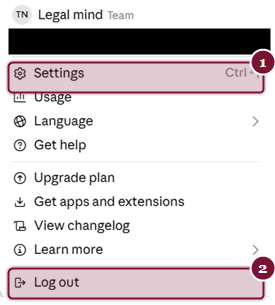
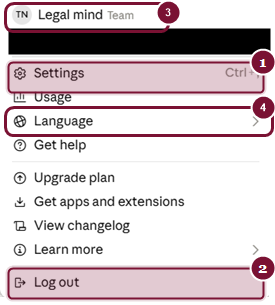
Desktop guide: second review pass, legends for all mentioned UI items, wording fixes

Changed region(s): [[0.0, 0.2951, 1.0, 0.4721], [0.0, 0.0, 0.6691, 0.118]]

diff --git a/desktop/index.html b/desktop/index.html
@@ -53,7 +53,7 @@
       </div>
       <div class="sec-body">
         <p><bdi>Claude Desktop</bdi> היא האפליקציה הרשמית של <bdi>Anthropic</bdi> למחשב. זה אותו <bdi>Claude</bdi> שאתם מכירים מהדפדפן: אותו חשבון, אותן שיחות, אותם מודלים, בתוך אפליקציה שמותקנת על המחשב עצמו, נפתחת מתפריט <bdi>Start</bdi> כמו <bdi>Word</bdi> או <bdi>Outlook</bdi>, ויושבת לכם בשורת המשימות.</p>
-        <p>חשוב להבין כבר עכשיו: ההתקנה לא יוצרת "חשבון שני". השיחות והפרויקטים שמורים בחשבון שלכם, ולכן שיחה שהתחלתם בדפדפן תופיע באפליקציה, ופרויקט שפתחתם באפליקציה יופיע בדפדפן. החריג היחיד: משימות <bdi>Cowork</bdi> שרצות על המחשב עצמו (סעיף 3).</p>
+        <p>חשוב להבין כבר עכשיו: ההתקנה לא יוצרת "חשבון שני". השיחות והפרויקטים שמורים בחשבון שלכם, ולכן שיחה שהתחלתם בדפדפן תופיע באפליקציה, ופרויקט שפתחתם באפליקציה יופיע בדפדפן. החריג העיקרי: משימות <bdi>Cowork</bdi> שרצות על המחשב עצמו, ופרויקטים שמקושרים לתיקייה במחשב (סעיף 3).</p>
         <p>אז למה בכלל להתקין, אם זה אותו <bdi>Claude</bdi>? משלוש סיבות עיקריות:</p>
         <ul class="bullets">
           <li><b>סביבת עבודה נקייה.</b> בדפדפן, <bdi>Claude</bdi> הוא עוד לשונית בין עשרות לשוניות, נבלע בין תיבת המייל, נט המשפט והחדשות. באפליקציה הוא חלון עבודה בפני עצמו: קל למצוא, קל לחזור אליו, קל לעבוד בו לצד מסמך פתוח.</li>
@@ -96,10 +96,10 @@
 
         <p>נעבור על השורות החשובות בטבלה, אחת אחרי השנייה:</p>
         <p><b>חלון עבודה עצמאי.</b> נשמע כמו הבדל קטן, אבל בעבודה יומיומית הוא מורגש מאוד. כשאתם באמצע ניסוח חוזה ורוצים להתייעץ עם <bdi>Claude</bdi>, אתם לא מחפשים את הלשונית הנכונה בין עשרים לשוניות פתוחות: האפליקציה שם, קליק אחד בשורת המשימות. אפשר להצמיד אותה לצד מסמך <bdi>Word</bdi> פתוח ולעבוד בשני החלונות במקביל.</p>
-        <p><b>חיבור לתוכנות ולקבצים.</b> כאן צריך להבחין בין שני סוגי חיבורים. חיבורים לשירותי ענן, כמו <bdi>Gmail</bdi>, <bdi>Google Drive</bdi> ו-<bdi>Slack</bdi>, נקראים <bdi>Connectors</bdi>, והם עובדים בכל מקום שבו אתם משתמשים ב-<bdi>Claude</bdi>: בדפדפן, באפליקציה ובטלפון. מה ששמור לאפליקציה הוא החיבור למחשב עצמו: תוספים שנקראים <bdi>Extensions</bdi>, שמחברים את <bdi>Claude</bdi> לקבצים ולתוכנות שעל המחשב. לפי <bdi>Anthropic</bdi>, הם עובדים רק ב-<bdi>Claude Desktop</bdi>, ולא בדפדפן או בטלפון. פירוט בסעיף 8.</p>
+        <p><b>חיבור לתוכנות ולקבצים.</b> כאן צריך להבחין בין שני סוגי חיבורים. חיבורים לשירותי ענן, כמו <bdi>Gmail</bdi>, <bdi>Google Drive</bdi> ו-<bdi>Slack</bdi>, נקראים <bdi>Connectors</bdi>, והם עובדים בכל מקום שבו אתם משתמשים ב-<bdi>Claude</bdi>: בדפדפן, באפליקציה ובטלפון. מה ששמור לאפליקציה הוא החיבור למחשב עצמו: תוספים שנקראים <bdi>Extensions</bdi>, שמחברים את <bdi>Claude</bdi> לקבצים ולתוכנות שעל המחשב. לפי <bdi>Anthropic</bdi>, הם עובדים רק באפליקציות למחשב, <bdi>Claude Desktop</bdi> ו-<bdi>Claude Code</bdi>, ולא בדפדפן או בטלפון. פירוט בסעיף 8.</p>
         <p><b>עבודת <bdi>Cowork</bdi> על קבצים במחשב.</b> זו הסיבה הגדולה באמת. במצב <bdi>Cowork</bdi>, <bdi>Claude</bdi> לא רק עונה לשאלות. הוא מבצע עבודה: מקבל גישה לתיקייה שבחרתם, קורא את הקבצים, יוצר מסמכים, מארגן ומסכם, ומגיש לכם תוצר מוגמר. את <bdi>Cowork</bdi> עצמו אפשר להפעיל גם מהדפדפן ומהטלפון, אבל הגישה לתיקיות ולקבצים שעל המחשב שלכם עוברת תמיד דרך האפליקציה: היא פועלת רק כל עוד האפליקציה פתוחה על אותו מחשב, ורק כשהמשימה עצמה התחילה באפליקציה. זהו נושא המדריך הבא בסדרה.</p>
         <p><b>רגע, ואיפה המתג של <bdi>Cowork</bdi>?</b> שאלה טובה, והתשובה השתנתה לאחרונה. ב-16 בספטמבר 2026 הודיעה <bdi>Anthropic</bdi> ש-<bdi>Cowork</bdi> והצ'אט מתאחדים ל-<bdi>Claude</bdi> אחד: במקום שתחליטו מראש אם מה שאתם צריכים הוא "שיחה" או "משימה", אתם פשוט כותבים מה אתם צריכים, ו-<bdi>Claude</bdi> מחליט בעצמו אם זו תשובה מהירה או עבודה של ממש. השינוי יוצא בהדרגה, קודם למנויי <bdi>Pro</bdi> ו-<bdi>Max</bdi>. לפי <bdi>Anthropic</bdi>, במנויי <bdi>Team</bdi> ו-<bdi>Enterprise</bdi> הצ'אט ו-<bdi>Cowork</bdi> נשארים בינתיים כמו שהם. לכן ייתכן שאצל חלק מכם המתג בין <bdi>Chat</bdi> ל-<bdi>Cowork</bdi> כבר נעלם מתיבת הכתיבה, ואצל אחרים הוא עדיין שם. שני המצבים תקינים. וכלל פשוט לכל המדריך: בכל מקום שבו כתוב "מצב <bdi>Cowork</bdi>", אם אין לכם מתג, פשוט כתבו את המשימה.</p>
-        <p>באותו יום נוספו גם <bdi>Claude Docs</bdi> ו-<bdi>Claude Slides</bdi>: מבקשים מסמך או מצגת, ו-<bdi>Claude</bdi> מכין אותם בתוך השיחה. אפשר לערוך אותם בעצמכם או לבקש מ-<bdi>Claude</bdi> לשנות, ואחר כך לשתף בקישור או לייצא. לפי <bdi>Anthropic</bdi>, הם בגרסת בטא, והם זמינים בדפדפן ובאפליקציה כאחד. זו לא סיבה להתקין, אבל זו סיבה טובה לא להיבהל כשתראו כפתורים חדשים.</p>
+        <p>באותו יום נוספו גם <bdi>Claude Docs</bdi> ו-<bdi>Claude Slides</bdi>: מבקשים מסמך או מצגת, ו-<bdi>Claude</bdi> מכין אותם בתוך השיחה. אפשר לערוך אותם בעצמכם או לבקש מ-<bdi>Claude</bdi> לשנות, ואחר כך לשתף בקישור או לייצא. לפי <bdi>Anthropic</bdi>, הם בגרסת בטא, והם זמינים בדפדפן ובאפליקציה כאחד. במנוי <bdi>Enterprise</bdi> הם כבויים עד שבעל הארגון מפעיל אותם. זו לא סיבה להתקין, אבל זו סיבה טובה לא להיבהל כשתראו כפתורים חדשים.</p>
         <p><b>עדכוני גרסה.</b> גם כאן אין מה לעשות. לפי <bdi>Anthropic</bdi>, האפליקציה בודקת בעצמה בערך כל ארבע שעות אם יש גרסה חדשה, ומתקינה אותה אוטומטית.</p>
         <p>ואם לסכם בשורה אחת: הדפדפן מצוין לשיחה. האפליקציה הופכת את <bdi>Claude</bdi> לחלק מסביבת העבודה של המשרד.</p>
         <p>ומה לגבי אפליקציית הטלפון? היא מצוינת לשאלות תוך כדי תנועה, בדרך לדיון, בין פגישות, ואפשר גם לפתוח ממנה משימת <bdi>Cowork</bdi> ולעקוב אחריה. מה שהיא לא יכולה לעשות לבדה הוא להגיע לקבצים שעל מחשב המשרד: לשם כך המשימה צריכה להתחיל באפליקציה במחשב, והאפליקציה צריכה להיות פתוחה. שלושת הערוצים, דפדפן, מחשב וטלפון, חיים יחד באותו חשבון ומשלימים זה את זה.</p>
@@ -110,7 +110,7 @@
       <div class="sec-head">
         <span class="sec-num">3</span>
         <span class="sec-dot"></span>
-        <h2 class="sec-title">אבטחת מידע: מה חשוב לדעת לפני</h2>
+        <h2 class="sec-title">אבטחת מידע: מה חשוב לדעת</h2>
       </div>
       <div class="sec-body">
         <p>השאלה הראשונה שעורכי דין שואלים אותנו על האפליקציה היא כמעט תמיד שאלת אבטחה: "אם אני מתקין את זה על המחשב של המשרד, מה זה אומר על המידע שלי?"</p>
@@ -146,7 +146,7 @@
           <li><b>רכיב של <bdi>Windows</bdi> בשם <bdi>Virtual Machine Platform</bdi>.</b> לפי <bdi>Anthropic</bdi>, <bdi>Claude Desktop</bdi> ל-<bdi>Windows</bdi> צריך את הרכיב הזה כדי להפעיל את <bdi>Cowork</bdi>, ומחלקת המחשוב יודעת להפעיל אותו. שימו לב: לפי <bdi>Anthropic</bdi>, במחשב וירטואלי <bdi>(VDI)</bdi> בלי תמיכה בווירטואליזציה מקוננת, <bdi>Cowork</bdi> לא ירוץ.</li>
         </ul>
         <p>המדריך מדגים את ההתקנה על <bdi>Windows</bdi>, מערכת ההפעלה הנפוצה במשרדים בישראל. ב-<bdi>Mac</bdi> התהליך מקביל: מורידים את הקובץ מאותו עמוד, פותחים אותו להשלמת ההתקנה, ומפעילים את <bdi>Claude</bdi> מתיקיית <bdi>Applications</bdi>.</p>
-        <p>הערה למחשבי <bdi>Windows</bdi> עם מעבד <bdi>ARM</bdi> (דגמים מסוימים של מחשבים ניידים חדשים): בעמוד ההורדה יש כפתור נפרד, <bdi dir="ltr">Windows (arm64)</bdi>. אם אינכם יודעים מה סוג המעבד שלכם, בחרו ב-<bdi>Download for Windows</bdi>, או שאלו את מחלקת המחשוב.</p>
+        <p>הערה למחשבי <bdi>Windows</bdi> עם מעבד <bdi>ARM</bdi> (דגמים מסוימים של מחשבים ניידים חדשים): בעמוד ההורדה יש כפתור נפרד, <bdi dir="ltr">Windows (arm64)</bdi>. אם אינכם יודעים מה סוג המעבד שלכם, שאלו את מחלקת המחשוב לפני ההורדה.</p>
         <p>ונקודה אחת שכדאי לדעת מראש במשרדים עם מחלקת מחשוב: אם המחשבים במשרד מנוהלים על ידי גורם <bdi>IT</bdi>, ייתכן שהתקנת תוכנות דורשת את אישורו, כמו כל תוכנה. במקרה כזה, שלחו לו את המדריך הזה, ובעיקר את הסעיף הזה: אם ה-<bdi>IT</bdi> מתקין עבורכם, שיתקין עם הרשאות מנהל ויוודא שה-<bdi dir="ltr">Virtual Machine Platform</bdi> מופעל, אחרת <bdi>Cowork</bdi> לא יעבוד, ואף אחד לא יבין למה. למשרדים שמתקינים על הרבה מחשבים בבת אחת, ל-<bdi>Anthropic</bdi> יש <a href="https://support.claude.com/en/articles/12622703-deploy-claude-desktop-for-windows" target="_blank" rel="noopener">עמוד ייעודי למחלקות מחשוב</a> (באנגלית).</p>
       </div>
     </section>
@@ -162,7 +162,7 @@
 
         <h3 class="h2">שלב 1: הורדת קובץ ההתקנה</h3>
         <p>גלשו בדפדפן לעמוד ההורדה הרשמי של <bdi>Anthropic</bdi>:</p>
-        <p><code dir="ltr">claude.com/download</code></p>
+        <p><a href="https://claude.com/download" target="_blank" rel="noopener"><code dir="ltr">claude.com/download</code></a></p>
         <p>חשוב: מורידים אך ורק מהעמוד הרשמי הזה. לא מאתרי הורדות, לא מקישורים במייל. זה הכלל לכל תוכנה, ובוודאי לתוכנה שתעבוד לצד חומר מקצועי.</p>
 
         <figure>
@@ -192,8 +192,8 @@
           <figcaption>חלון האבטחה של <bdi>Windows</bdi> (צולם בטלפון: <bdi>Windows</bdi> חוסמת צילום מסך של חלון זה)</figcaption>
         </figure>
         <ul class="shot-legend">
-          <li><b>1</b><span>השורה החשובה: <bdi dir="ltr">Verified publisher: Anthropic, PBC</bdi>: אישור רשמי של <bdi>Windows</bdi> שהקובץ חתום דיגיטלית על ידי <bdi>Anthropic</bdi> עצמה ולא שונה בדרך. זה בדיוק מה שמבדיל התקנה בטוחה מקובץ מפוקפק, ואם השורה הזו מופיעה, אתם בידיים טובות.</span></li>
-          <li><b>2</b><span>לאחר שוידאתם, לחצו <bdi>Yes</bdi>. אם במקום כפתור <bdi>Yes</bdi> החלון מבקש שם משתמש וסיסמה של מנהל, עצרו ופנו למחלקת המחשוב: בלי הרשאות מנהל, <bdi>Cowork</bdi> במחשב לא יעבוד (סעיף 4).</span></li>
+          <li><b>1</b><span>השורה החשובה היא <bdi dir="ltr">Verified publisher: Anthropic, PBC</bdi>. זהו אישור רשמי של <bdi>Windows</bdi> שהקובץ חתום דיגיטלית על ידי <bdi>Anthropic</bdi> עצמה ולא שונה בדרך. זה בדיוק מה שמבדיל התקנה בטוחה מקובץ מפוקפק, ואם השורה הזו מופיעה, אתם בידיים טובות.</span></li>
+          <li><b>2</b><span>אחרי שווידאתם, לחצו <bdi>Yes</bdi>. אם במקום כפתור <bdi>Yes</bdi> החלון מבקש שם משתמש וסיסמה של מנהל, עצרו ופנו למחלקת המחשוב: בלי הרשאות מנהל, <bdi>Cowork</bdi> במחשב לא יעבוד (סעיף 4).</span></li>
         </ul>
 
         <h3 class="h2">שלב 4: ההתקנה רצה מעצמה</h3>
@@ -299,6 +299,8 @@
         <ul class="shot-legend">
           <li><b>1</b><span><bdi>Settings</bdi>: כניסה להגדרות האפליקציה.</span></li>
           <li><b>2</b><span><bdi>Log out</bdi>: התנתקות מהחשבון.</span></li>
+          <li><b>3</b><span>שם הסביבה: כאן רואים לאיזה חשבון אתם מחוברים. במנוי <bdi>Team</bdi> יופיע כאן שם הארגון.</span></li>
+          <li><b>4</b><span><bdi>Language</bdi>: בחירת שפת הממשק.</span></li>
         </ul>
       </div>
     </section>
@@ -313,7 +315,7 @@
         <p>סעיף זה הוא סקירה: המטרה שתדעו מה קיים ואיפה למצוא אותו. ההדרכות המפורטות, כולל שיקולי המדיניות המשרדית, נמצאות במדריכים הייעודיים של הסדרה.</p>
 
         <h3 class="h2">הגדרות האפליקציה</h3>
-        <p>נפתח את ההגדרות (תפריט החשבון ואז <bdi>Settings</bdi>, או <bdi dir="ltr">Ctrl+,</bdi>). כך נראה המסך שנפתח:</p>
+        <p>נפתח את ההגדרות (תפריט החשבון ואז <bdi>Settings</bdi>). כך נראה המסך שנפתח:</p>
 
         <figure>
           <img class="shot-real" src="cd-10-settings-general-annotated.png" alt="חלון ההגדרות: עמוד General">
@@ -322,9 +324,10 @@
         <ul class="shot-legend">
           <li><b>1</b><span>קטגוריות ההגדרות. רובן מוכרות מהדפדפן, ושימו לב לקבוצה <bdi>Desktop app</bdi>: הגדרות שקיימות רק באפליקציה, ובהן <bdi>Extensions</bdi> (בהמשך הסעיף).</span></li>
           <li><b>2</b><span><bdi>Appearance</bdi>: מראה בהיר, כהה, או לפי הגדרת המחשב. מתחתיו גם בחירת גופן התצוגה.</span></li>
+          <li><b>3</b><span><bdi dir="ltr">What should Claude call you?</bdi>: איך <bdi>Claude</bdi> יפנה אליכם.</span></li>
+          <li><b>4</b><span><bdi dir="ltr">Instructions for Claude</bdi>: הנחיות קבועות שילוו כל שיחה, למשל העדפות שפה וסגנון כתיבה. לפי <bdi>Anthropic</bdi>, הן חלות על כל השיחות, לא רק באפליקציה.</span></li>
         </ul>
 
-        <p>בעמוד זה אפשר גם להגדיר איך <bdi>Claude</bdi> יפנה אליכם, ולהזין הנחיות קבועות שילוו כל שיחה (<bdi dir="ltr">Instructions for Claude</bdi>), למשל העדפות שפה וסגנון כתיבה. ההנחיות האלה חלות על החשבון שלכם בכל מקום, לא רק באפליקציה.</p>
 
         <h3 class="h2">חיבור לשירותים: <bdi>Connectors</bdi></h3>
         <p><bdi>Connectors</bdi> מאפשרים ל-<bdi>Claude</bdi> להתחבר לשירותים שאתם עובדים איתם: לקרוא מהם מידע ולעבוד איתם ישירות מתוך השיחה, בהתאם להרשאות שאישרתם. החיבורים שתראו כאן, כמו <bdi>Gmail</bdi> ו-<bdi>Google Drive</bdi>, אינם בלעדיים לאפליקציה, והם עובדים גם בדפדפן. לפי <bdi>Anthropic</bdi>, יש גם חיבור ל-<bdi>Microsoft 365</bdi>, שרוב המשרדים בישראל עובדים איתו. לפי <bdi>Anthropic</bdi>, מגיעים אליהם דרך <bdi>Customize</bdi> ואז <bdi>Connectors</bdi>, ואת <bdi>Customize</bdi> תמצאו גם בסרגל הצד של האפליקציה. בחלון ההגדרות זה נראה כך:</p>
@@ -336,7 +339,7 @@
         <ul class="shot-legend">
           <li><b>1</b><span>הקטגוריה <bdi>Connectors</bdi> בתפריט ההגדרות (תחת <bdi>Customize</bdi>).</span></li>
           <li><b>2</b><span>החיבורים הפופולריים מוצגים ראשונים: <bdi>Gmail</bdi>, <bdi>Google Drive</bdi> ו-<bdi>Slack</bdi>. חיבור מתבצע בלחיצת <bdi>Connect</bdi> ואישור הרשאות. לפי <bdi>Anthropic</bdi>, במנוי <bdi>Team</bdi> בעלי הארגון צריכים קודם לאפשר את החיבור לארגון, ואחר כך כל אחד מתחבר בעצמו.</span></li>
-          <li><b>3</b><span>הכפתור <bdi>Add</bdi> פותח קטלוג של שירותים נוספים שאפשר לחבר, מעבר למה שמוצג בעמוד.</span></li>
+          <li><b>3</b><span>הכפתור <bdi>Add</bdi> פותח תפריט להוספת חיבורים נוספים, מעבר למה שמוצג בעמוד.</span></li>
         </ul>
 
         <p>מה זה נותן בפועל? דוגמה: אחרי חיבור <bdi>Google Drive</bdi>, אפשר לבקש מ-<bdi>Claude</bdi> לאתר מסמך ולעבוד עליו, בלי להוריד ולהעלות קבצים ידנית. החיבורים הם אישיים לחשבון שלכם, ואת כל חיבור אפשר לנתק באותו מסך בכל רגע.</p>
@@ -347,8 +350,8 @@
 
         <h3 class="h2">מה עוד שמור ל-<bdi>Desktop</bdi></h3>
         <ul class="bullets">
-          <li><b>תוספים למחשב: <bdi>Extensions</bdi>.</b> לפי <bdi>Anthropic</bdi>, אלה תוספים שמחברים את <bdi>Claude</bdi> לתוכנות ולקבצים שעל המחשב, והם עובדים רק ב-<bdi>Claude Desktop</bdi>. מוצאים אותם בהגדרות, ב-<bdi>Settings</bdi> ואז <bdi>Extensions</bdi>. גם כאן, לפני שמתקינים תוסף במחשב משרדי, ודאו שהוא תואם את מדיניות המשרד.</li>
-          <li><b>שורת שאלה מהירה (רק ב-<bdi>Mac</bdi>).</b> לפי <bdi>Anthropic</bdi>, ב-<bdi>Mac</bdi> הקשה כפולה על <bdi>Option</bdi> פותחת שורת כתיבה מעל כל תוכנה פתוחה. ב-<bdi>Windows</bdi> היכולת הזו לא קיימת כרגע.</li>
+          <li><b>תוספים למחשב: <bdi>Extensions</bdi>.</b> לפי <bdi>Anthropic</bdi>, אלה תוספים שמחברים את <bdi>Claude</bdi> לתוכנות ולקבצים שעל המחשב, והם עובדים רק באפליקציות למחשב, ולא בדפדפן או בטלפון. מוצאים אותם בהגדרות, ב-<bdi>Settings</bdi> ואז <bdi>Extensions</bdi>. גם כאן, לפני שמתקינים תוסף במחשב משרדי, ודאו שהוא תואם את מדיניות המשרד.</li>
+          <li><b>שורת שאלה מהירה (לא קיימת ב-<bdi>Windows</bdi>).</b> לפי <bdi>Anthropic</bdi>, ב-<bdi>Mac</bdi> הקשה כפולה על <bdi>Option</bdi> פותחת שורת כתיבה מעל כל תוכנה פתוחה. ב-<bdi>Windows</bdi> היכולת הזו לא קיימת כרגע.</li>
           <li><b>עבודת <bdi>Cowork</bdi> על הקבצים במחשב</b> (זמינה במנויים בתשלום). היכולת המשמעותית ביותר של האפליקציה, וזו שלשמה התכנסנו: במצב <bdi>Cowork</bdi>, <bdi>Claude</bdi> מקבל מכם משימה שלמה, למשל לארגן תיקיית מסמכים של תיק, להפיק סיכום ממקבץ קבצים, או להכין טיוטה על בסיס חומר קיים, ועובד עליה בעצמו, שלב אחר שלב, עד תוצר מוגמר. הגישה לתיקיות שעל המחשב שלכם מתאפשרת רק דרך האפליקציה, ובשליטתכם המלאה: גם כשמפעילים <bdi>Cowork</bdi> מהדפדפן או מהטלפון, הוא מגיע לקבצים שלכם רק כל עוד האפליקציה פתוחה על אותו מחשב, ורק אם המשימה התחילה בה. אם היא סגורה, העבודה ממשיכה לרוץ בענן, אבל בלי הקבצים המקומיים. הנושא הזה, על כל שיקוליו, מוסבר בהרחבה ב<a href="../cowork/">מרכז מדריכי <bdi>Cowork</bdi> של <bdi>Legal Mind</bdi> לעורכי דין</a>, ההמשך הישיר של מדריך זה.</li>
         </ul>
       </div>
@@ -362,7 +365,7 @@
       </div>
       <div class="sec-body">
         <h3 class="h2">התקנתי את האפליקציה, השיחות שלי מהדפדפן ייעלמו?</h3>
-        <p>לא. השיחות והפרויקטים שמורים בחשבון, ומופיעים גם באפליקציה וגם בדפדפן. החריג: משימות <bdi>Cowork</bdi> שרצות על המחשב עצמו, שהיסטוריה שלהן נשמרת על המחשב (סעיף 3).</p>
+        <p>לא. השיחות והפרויקטים שמורים בחשבון, ומופיעים גם באפליקציה וגם בדפדפן. החריג: משימות <bdi>Cowork</bdi> שרצות על המחשב עצמו, שההיסטוריה שלהן נשמרת על המחשב (סעיף 3).</p>
 
         <h3 class="h2">אפשר להמשיך להשתמש גם בדפדפן?</h3>
         <p>כן, במקביל וללא הגבלה. רבים עובדים כך: האפליקציה במחשב המשרד למשימות העומק, והדפדפן כשעובדים ממחשב אחר: בבית, בדיון, אצל לקוח.</p>
@@ -415,7 +418,7 @@
           <li>סעיפים 2, 7, 9 ו-10: איחוד הצ'אט ו-<bdi>Cowork</bdi> ל-<bdi>Claude</bdi> אחד (הודעת <bdi>Anthropic</bdi> מ-16 בספטמבר 2026), והתוספת של <bdi>Claude Docs</bdi> ו-<bdi>Claude Slides</bdi>.</li>
           <li>סעיפים 4, 5 ו-9: דרישות <bdi>Cowork</bdi> ב-<bdi>Windows</bdi>: הרשאות מנהל בהתקנה ורכיב <bdi dir="ltr">Virtual Machine Platform</bdi>, והסבר מה קורה בהתקנה על ידי <bdi>IT</bdi>.</li>
           <li>סעיף 3: שמירת היסטוריית משימות מקומיות של <bdi>Cowork</bdi> על המחשב, ומשמעותה למשרד במנוי <bdi>Team</bdi>.</li>
-          <li>סעיפים 1, 2, 3 ו-8: עדכון לפי מאמרי העזרה של <bdi>Anthropic</bdi> מספטמבר 2026: <bdi>Cowork</bdi> רץ כברירת מחדל בענן, <bdi>Extensions</bdi> לחיבור למחשב, <bdi>Connectors</bdi> דרך <bdi>Customize</bdi>, ושורת השאלה המהירה קיימת רק ב-<bdi>Mac</bdi>.</li>
+          <li>סעיפים 1, 2, 3 ו-8: עדכון לפי מאמרי העזרה של <bdi>Anthropic</bdi> מספטמבר 2026: <bdi>Cowork</bdi> רץ כברירת מחדל בענן, <bdi>Extensions</bdi> לחיבור למחשב, <bdi>Connectors</bdi> דרך <bdi>Customize</bdi>, ושורת השאלה המהירה לא קיימת ב-<bdi>Windows</bdi>.</li>
           <li>סעיפים 4 ו-5: צילום עדכני של עמוד ההורדה, והסבר על שני הכפתורים שמופיעים בו במחשב <bdi>Windows</bdi>.</li>
         </ul>
       </div>
@@ -424,7 +427,7 @@
   </main>
 </div>
 
-<footer><bdi>Legal Mind</bdi> · מדריך <bdi dir="ltr">Claude Desktop</bdi> · כל הזכויות שמורות ל<bdi>Legal Mind</bdi></footer>
+<footer><bdi>Legal Mind</bdi> · מדריך <bdi dir="ltr">Claude Desktop</bdi> · כל הזכויות שמורות ל-<bdi>Legal Mind</bdi></footer>
 
 <script>
 (function () {
